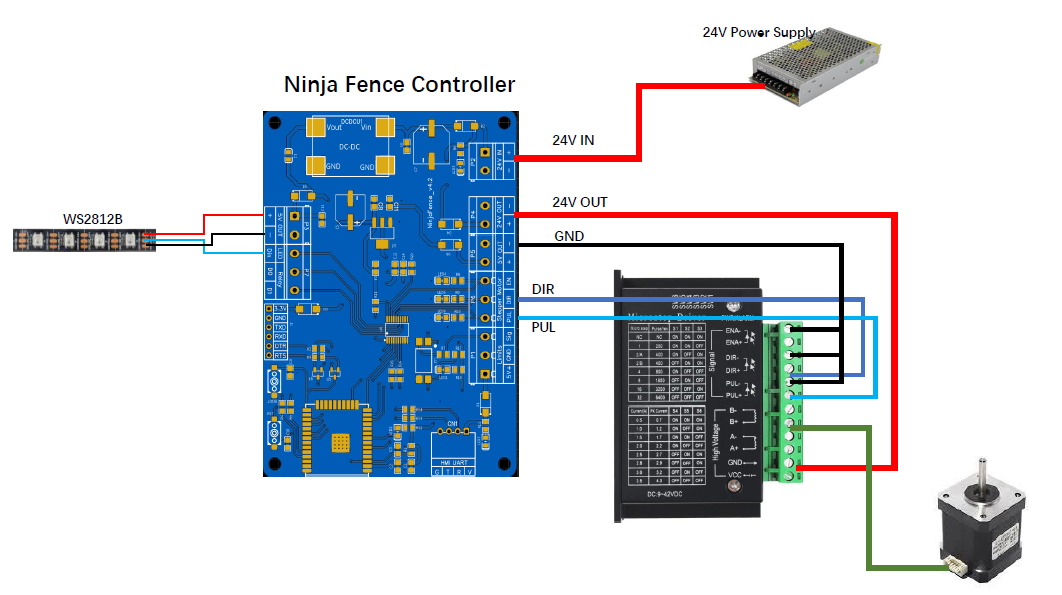
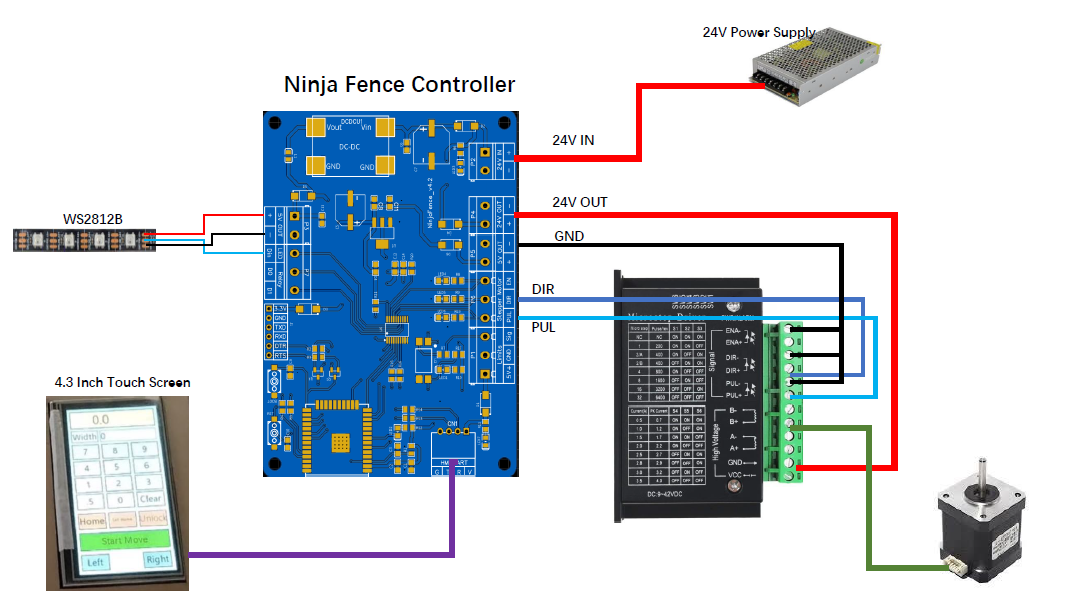
update hardware interface

Changed region(s): [[0.0, 0.0303, 0.9633, 0.9983]]

diff --git a/README.md b/README.md
@@ -6,4 +6,39 @@ NinjaFence is a low-cost automated table saw fence controller. Table saws are on
 
 ---
 
-# NinjaFence user manual [WiKi](https://github.com/ninjafence/ninjafence/wiki)
+# NinjaFence Feature list
+* [x] One stepper motor control
+* [x] Hardware/Software limit
+* [x] LED Strip indicator(WS2812)
+* [x] Jog+/Jog- (0.1mm)
+* [x] Firmware OTA support
+* [x] Fence calibration 
+* [ ] Homing
+
+# NinjaFence Hardware Interface
+
+| <font size=5>Interface</font> | <font size=5>Description</font> |
+|:-----|:-----|
+| **24V IN**    | 24V power supply connector, __*12V~28V*__ |
+| **24V OUT**   | It can supply power to the stepper motor driver  |
+| **5V OUT**    | Can supply power to external devices |
+| **EN**        | For stepper motor driver enable, __*we don't use this currently*__|
+| **DIR** | For stepper motor driver direction |
+| **PUL** | For stepper motor driver pulse |
+| **Sig** | For limit signal, a __*HIGH*__ level signal will trigger fence stop |
+| **Din** | Connect to WS2812 data in, MAX LED number is __*4*__ |
+| **D0**  | Digital out 0, when ninjafence is moving, output __*HIGH*__ level |
+| **D1**  | Digital out 1, when ninjafence is moving, output __*LOW*__ level |
+| **HMI UART** | Connect to 4.3 inch touchscreen, __*V: 5V+, G: 5V-*__ |
+
+# NinjaFence Wiring Diagram
+
+![](./pic/ninjafence_wire.png)
+
+# NinjaFence Touchscreen Interface
+
+
+
+# NinjaFence Configuration Interface
+
+
